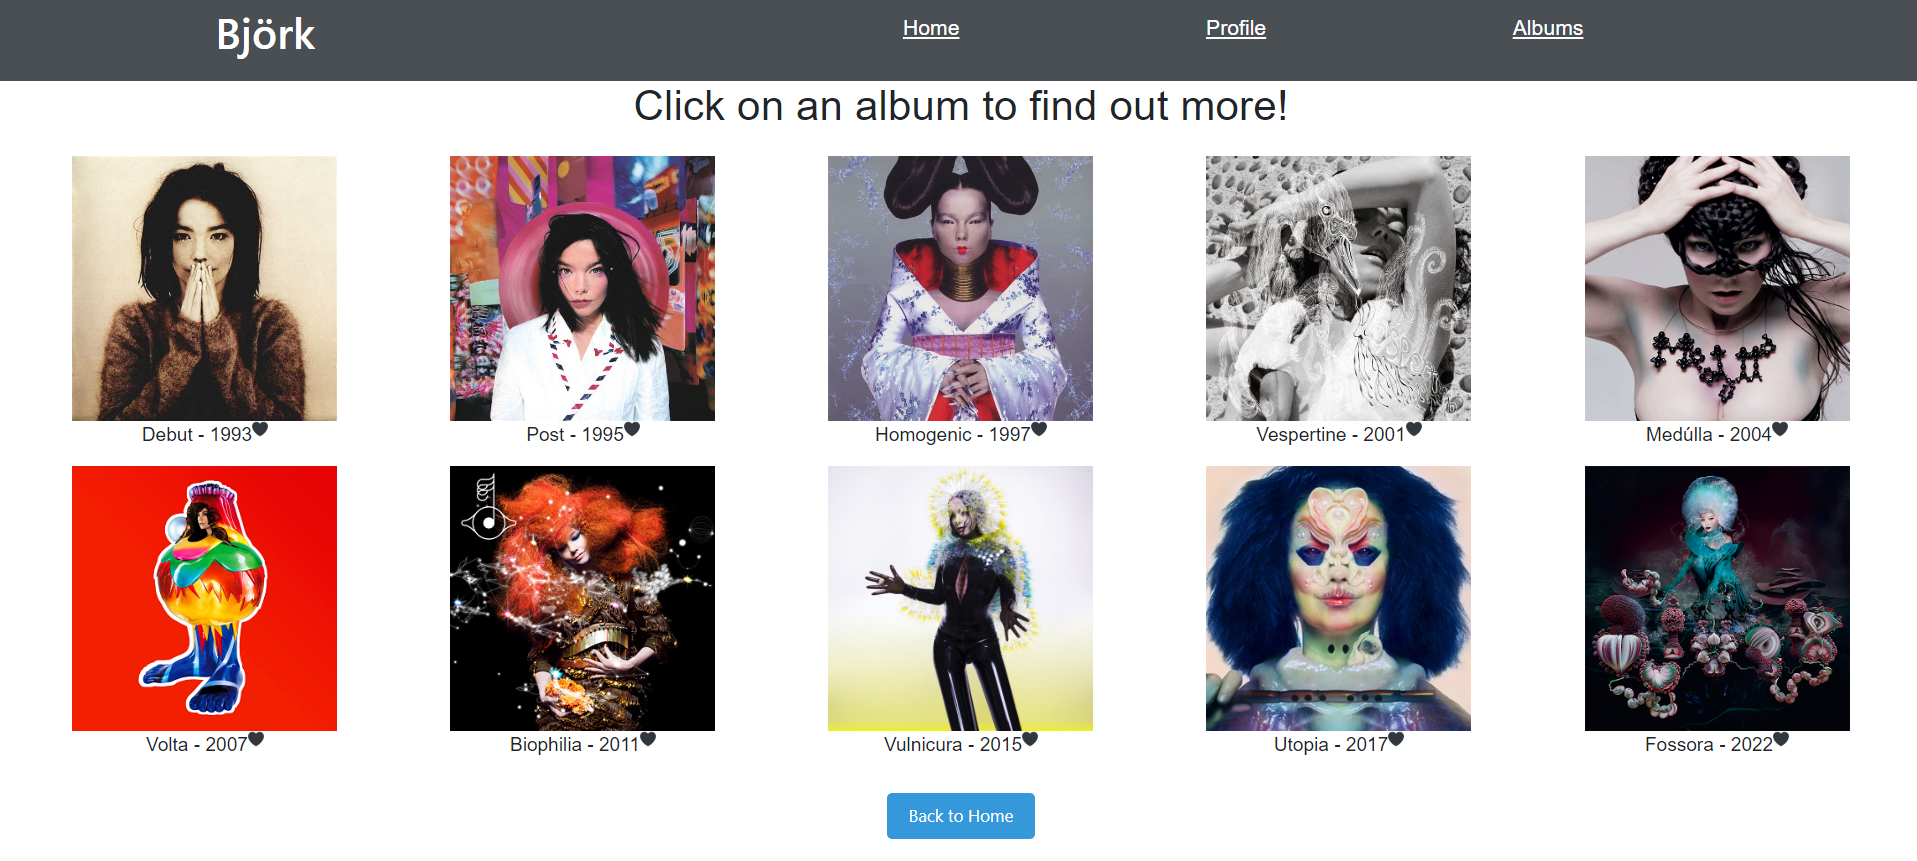
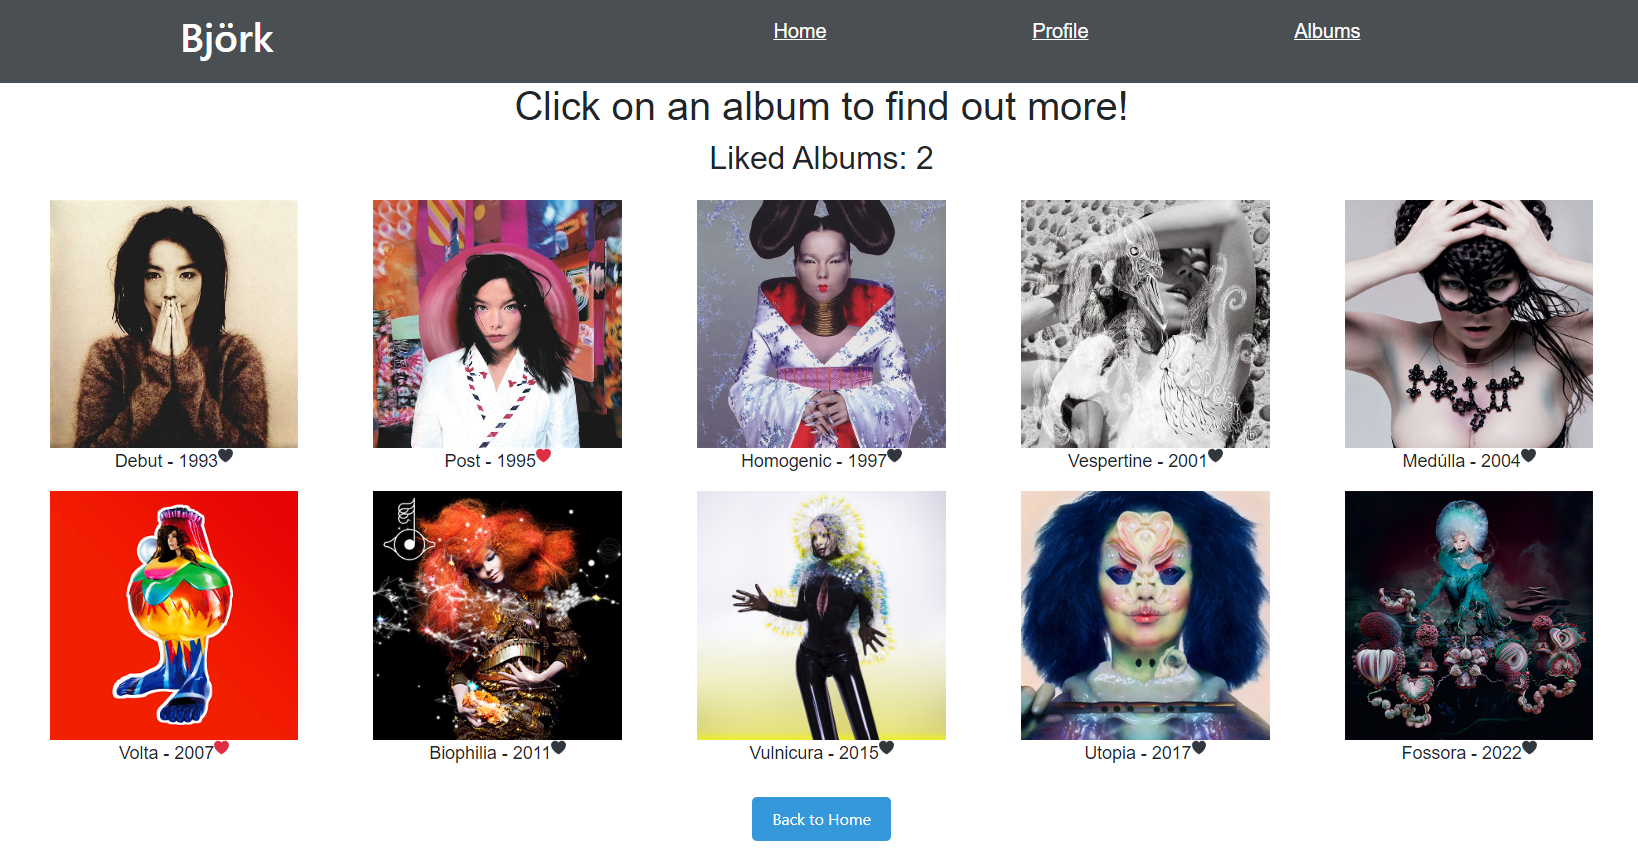
added redux feature

diff --git a/src/Pages/AlbumsPage/Albums.jsx b/src/Pages/AlbumsPage/Albums.jsx
@@ -1,28 +1,46 @@
-import React, { useState } from "react"
-import {useNavigate} from "react-router-dom"
+import React, { useState, useEffect } from "react"
+import { useNavigate } from "react-router-dom"
+import { useSelector, useDispatch } from 'react-redux'
+import { bindActionCreators } from "redux"
+import { actionCreators } from "../../action-creators"
+
+
+
 import SingleAlbum from "../../components/SingleAlbum/SingleAlbum"
+import LikeNumber from "../../components/LikeNumber"
 import "./Albums.css"
 
 export default function Albums() {
-const navigate = useNavigate()
+  const navigate = useNavigate()
+  const dispatch = useDispatch()
+
+  const likes = useSelector(state => state.value)
+
+  const { resetLikes } = bindActionCreators(actionCreators, dispatch)
+
+  useEffect(()=>{
+    resetLikes()
+  }, [])
+
 
   return (
     <>
-    <h1 className="album-h1">Click on an album to find out more!</h1>
-    <div className="albums">
-      <SingleAlbum name="Debut" year="1993" image="../assests/debut.jpeg" />
-      <SingleAlbum name="Post" year="1995" image="../assests/post.jpeg" />
-      <SingleAlbum name="Homogenic" year="1997" image="../assests/homogenic.jpeg" />
-      <SingleAlbum name="Vespertine" year="2001" image="../assests/vespertine.jpeg" />
-      <SingleAlbum name="Medúlla" year="2004" image="../assests/medulla.png" />
-      <SingleAlbum name="Volta" year="2007" image="../assests/volta.png" />
-      <SingleAlbum name="Biophilia" year="2011" image="../assests/biophilia.png" />
-      <SingleAlbum name="Vulnicura" year="2015" image="../assests/vulnicura.png" />
-      <SingleAlbum name="Utopia" year="2017" image="../assests/utopia.png" />
-      <SingleAlbum name="Fossora" year="2022" image="../assests/fossora.png" />
-    </div>
-    <button className="back-btn" onClick={()=> navigate('/')}>Back to Home</button>
+      <h1 className="album-text">Click on an album to find out more!</h1>
+      <LikeNumber likes={likes} />
+      <div className="albums" >
+        <SingleAlbum name="Debut" year="1993" image="../assests/debut.jpeg" />
+        <SingleAlbum name="Post" year="1995" image="../assests/post.jpeg" />
+        <SingleAlbum name="Homogenic" year="1997" image="../assests/homogenic.jpeg" />
+        <SingleAlbum name="Vespertine" year="2001" image="../assests/vespertine.jpeg" />
+        <SingleAlbum name="Medúlla" year="2004" image="../assests/medulla.png" />
+        <SingleAlbum name="Volta" year="2007" image="../assests/volta.png" />
+        <SingleAlbum name="Biophilia" year="2011" image="../assests/biophilia.png" />
+        <SingleAlbum name="Vulnicura" year="2015" image="../assests/vulnicura.png" />
+        <SingleAlbum name="Utopia" year="2017" image="../assests/utopia.png" />
+        <SingleAlbum name="Fossora" year="2022" image="../assests/fossora.png" />
+      </div>
+      <button className="back-btn" onClick={() => navigate('/')}>Back to Home</button>
     </>
-    
+
   )
 }

diff --git a/src/components/SingleAlbum/SingleAlbum.jsx b/src/components/SingleAlbum/SingleAlbum.jsx
@@ -1,21 +1,33 @@
 import React, { useState } from "react"
 import "./SingleAlbum.css"
 import { useNavigate } from "react-router-dom"
+import { useDispatch } from "react-redux"
+import { bindActionCreators } from "redux"
+import { actionCreators } from "../../action-creators"
 
 
 export default function SingleAlbum(props) {
   const navigate = useNavigate()
+  const dispatch = useDispatch()
+  const [liked, setLiked] = useState(0)
+
+  const { addLike, minusLike } = bindActionCreators(actionCreators, dispatch)
 
   const hearts = ["./assests/blackheart.png", "./assests/heart.png"]
-  const [liked, setLike] = useState(0)
 
   const likeAlbum = () => {
-    setLike(prevState => (prevState + 1) % 2)
+    setLiked(prevState => (prevState + 1) % 2)
+    if (liked == 0) {
+      addLike()
+    } else if (liked == 1) {
+      minusLike()
+    }
   }
+
 
   const openInNewTab = () => {
     let url = `https://en.wikipedia.org/wiki/${props.name}_(Björk_album)`
-    if (props.name==="Vulnicura") {
+    if (props.name === "Vulnicura") {
       url = "https://en.wikipedia.org/wiki/Vulnicura"
     } else if (props.name === "Homogenic") {
       url = "https://en.wikipedia.org/wiki/Homogenic"
@@ -24,7 +36,7 @@ export default function SingleAlbum(props) {
     } else if (props.name === "Volta") {
       url = "https://en.wikipedia.org/wiki/Volta_(album)"
     }
-    
+
     window.open(url)
   }
 

diff --git a/src/index.jsx b/src/index.jsx
@@ -2,11 +2,14 @@ import React from "react"
 import { createRoot } from "react-dom/client"
 import App from "./App.jsx"
 import { BrowserRouter as Router } from "react-router-dom"
+import { Provider } from 'react-redux'
+import store from './store.jsx'
 
 const root = createRoot(document.getElementById("root"))
 root.render(
   <Router>
-    <App />
+    <Provider store={store}>
+      <App />
+    </Provider>
   </Router>
-
 )

diff --git a/src/reducers/likeReducer.jsx b/src/reducers/likeReducer.jsx
@@ -1,0 +1,16 @@
+const initialState = { value: 0 }
+
+const likeReducer = (state = initialState, action) => {
+  switch (action.type) {
+    case 'addLike':
+      return { ...state, value: state.value + 1 }
+    case 'minusLike':
+      return { ...state, value: state.value - 1 }
+    case 'resetLikes':
+      return {...state,value:0}
+    default:
+      return state
+  }
+}
+
+export default likeReducer

diff --git a/src/action-creators/action-creators.jsx b/src/action-creators/action-creators.jsx
@@ -1,0 +1,23 @@
+export const addLike = (likes) => {
+  return (dispatch) => {
+    dispatch({
+      type: 'addLike',
+    })
+  }
+}
+
+export const minusLike = (likes) => {
+  return (dispatch) => {
+    dispatch({
+      type: 'minusLike',
+    })
+  }
+}
+
+export const resetLikes = () => {
+  return (dispatch) => {
+    dispatch({
+      type:'resetLikes'
+    })
+  }
+}

diff --git a/src/store.jsx b/src/store.jsx
@@ -1,0 +1,7 @@
+import { createStore, applyMiddleware } from 'redux'
+import thunk from 'redux-thunk'
+import likeReducer from './reducers/likeReducer'
+
+const store = createStore(likeReducer, applyMiddleware(thunk))
+
+export default store

diff --git a/src/App.jsx b/src/App.jsx
@@ -4,7 +4,10 @@ import { Profile, Albums, Home } from "./components"
 import Nav from "./Nav"
 
 
+
 export default function App() {
+  
+
   return (
     <>
       <Routes>

diff --git a/src/components/LikeNumber/index.jsx b/src/components/LikeNumber/index.jsx
@@ -1,0 +1,7 @@
+import React from "react"
+
+export default function LikeNumber ({likes}) {
+  return (
+    <h2 className="album-text"  >Liked Albums: {likes}</h2>
+  )
+}

diff --git a/src/Pages/AlbumsPage/Albums.css b/src/Pages/AlbumsPage/Albums.css
@@ -24,7 +24,7 @@
   background-color: #2980b9;
 }
 
-.album-h1 {
+.album-text {
   font-family: Arial, Helvetica, sans-serif;
   text-align: center;
 }

diff --git a/src/action-creators/index.jsx b/src/action-creators/index.jsx
@@ -1,0 +1,1 @@
+export * as actionCreators from './action-creators'

diff --git a/README.md b/README.md
@@ -1,5 +1,5 @@
 # Music App using React
-Website using React. The website contains multiple components (Home, Profile, Albums, and SingleAlbum). Routes are used to allow users to navigate between pages. On the Albums page, the user is able to like albums by clicking on the heart image, which will turn red once liked. The user can also click on an album cover and a tab with the wikipedia page for that album will open. useNavigate is used to implement the 'Back' button on this page. On the home page, useEffect is used to alternate the picture shown.
+Website using React. The website contains multiple components (Home, Profile, Albums, and SingleAlbum). Routes are used to allow users to navigate between pages. On the Albums page, the user is able to like albums by clicking on the heart image, which will turn red once liked. The user can also click on an album cover and a tab with the wikipedia page for that album will open. useNavigate is used to implement the 'Back' button on this page. On the home page, useEffect is used to alternate the picture shown. The 'liked albums' feature on the album page was created in order to practice Redux. Liking and un-liking a heart changes a value in the store. The `LikeNumber` component (which is used on the album page) reads this value and displays it (e.g. as `Liked Albums: 2`).
 
 
 ## Installation
